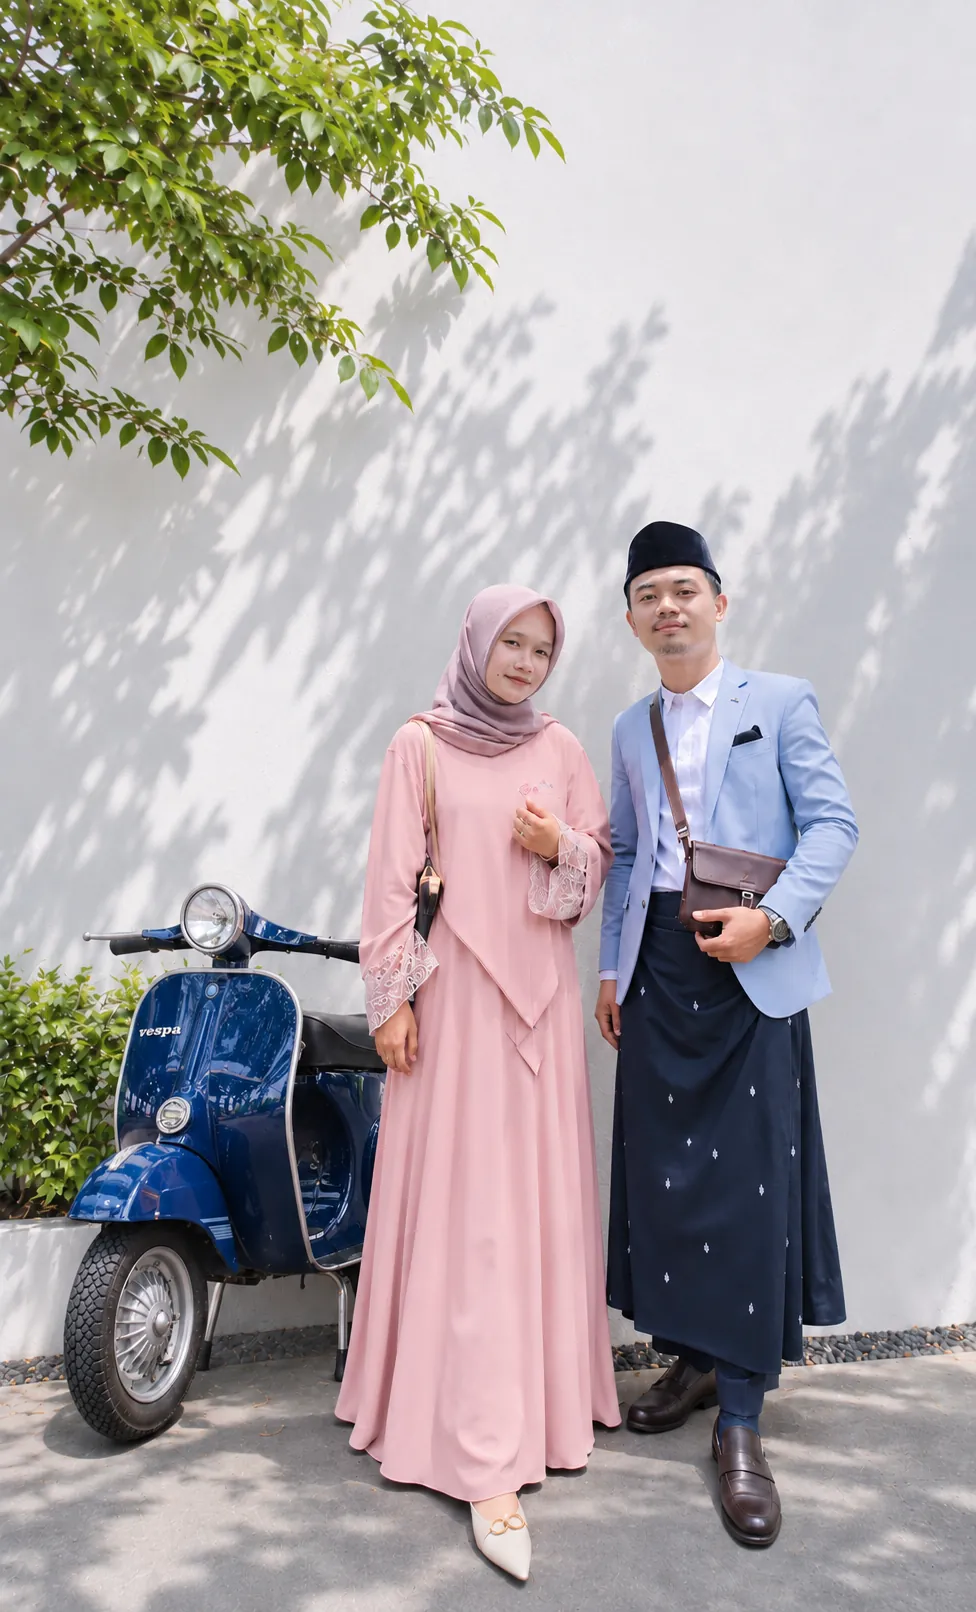
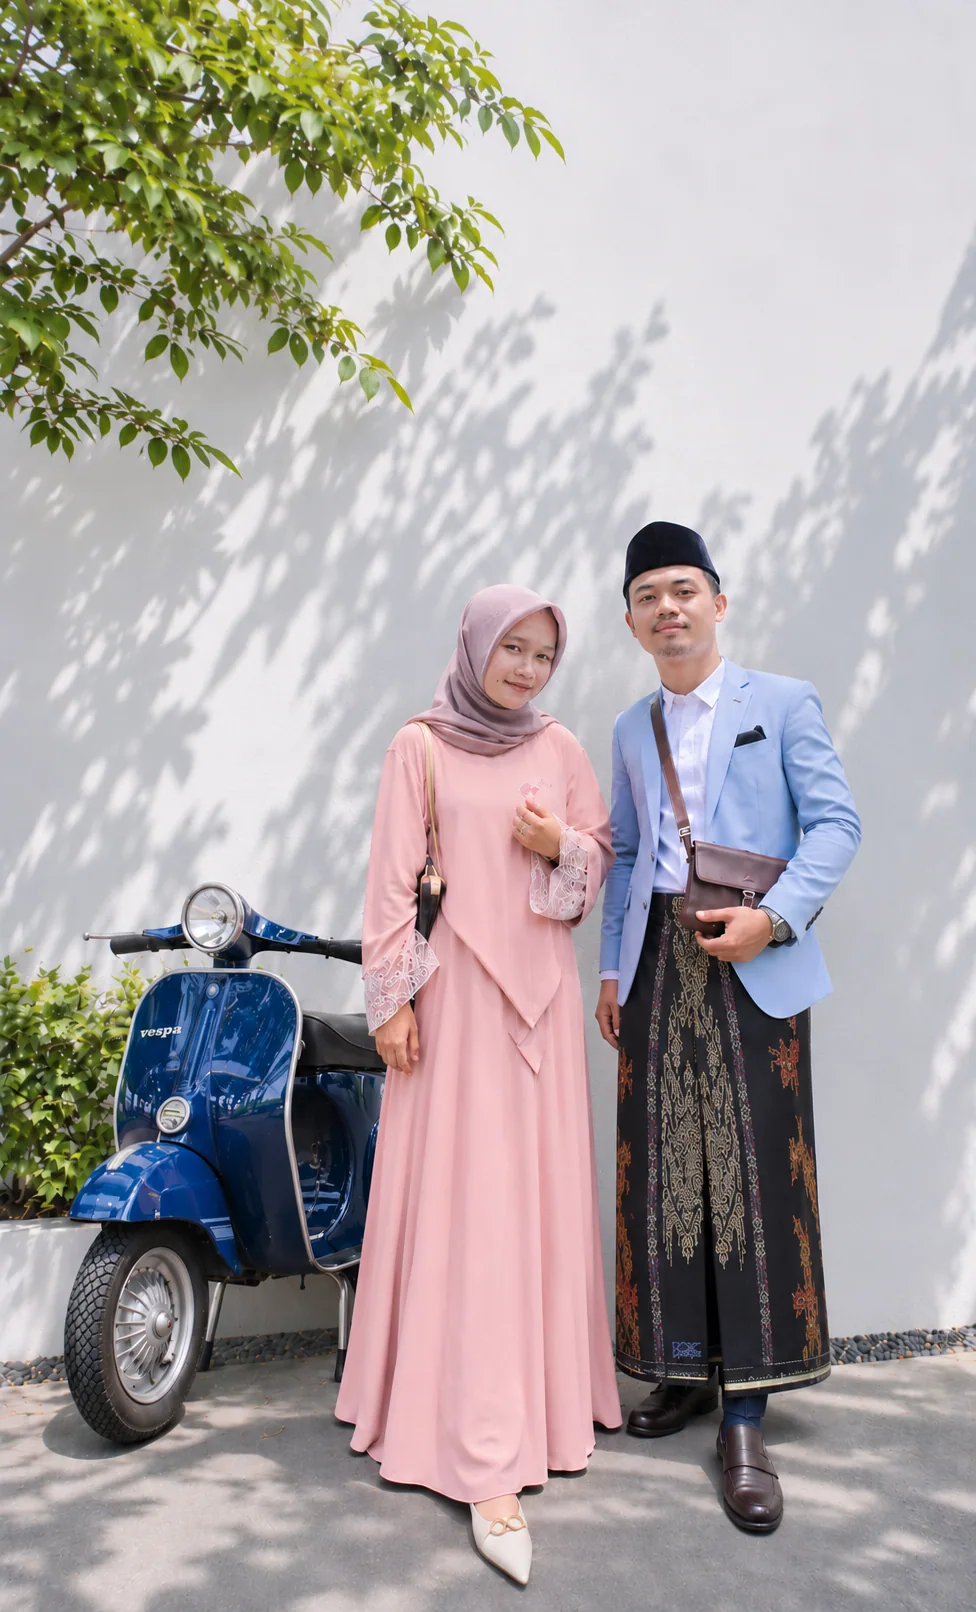
Add files via upload

diff --git a/index.html b/index.html
@@ -1,5 +1,5 @@
 <!doctype html><html lang="id"><head><meta charset="utf-8"><meta name="viewport" content="width=device-width,initial-scale=1,viewport-fit=cover"><meta name="theme-color" content="#243d35"><meta name="description" content="Undangan pernikahan Mumun Munawaroh & Muhamad Ainur Rofiq — 29 November 2026"><title>The Wedding of Mumun & Rofiq</title><link rel="preconnect" href="https://fonts.googleapis.com"><link rel="preconnect" href="https://fonts.gstatic.com" crossorigin><link href="https://fonts.googleapis.com/css2?family=Cormorant+Garamond:wght@400;500;600&family=DM+Sans:wght@400;500;600;700&display=swap" rel="stylesheet"><style>
 :root{--forest:#243d35;--sage:#a3b49d;--light:#e9eee5;--cream:#faf8f1;--gold:#b89b68;--ink:#243d35}*{box-sizing:border-box}html{scroll-behavior:smooth}body{margin:0;background:#dfe7df;color:var(--ink);font:14px/1.8 'DM Sans',sans-serif}body.lock{overflow:hidden}button,a{font:inherit}a{color:inherit}button{cursor:pointer}.shell{width:min(100%,560px);margin:auto;overflow:hidden;background:var(--cream);box-shadow:0 0 80px #1c3c3022}.serif{font-family:'Cormorant Garamond',serif;font-weight:500;line-height:1.08}.eyebrow{text-transform:uppercase;letter-spacing:.36em;font-size:10px;font-weight:700}.gold{color:var(--gold)}h1,h2,h3,p{margin-top:0}h2{font-size:clamp(42px,10vw,63px);margin-bottom:18px}h3{font-size:34px}.center{text-align:center}.section{padding:94px 28px;position:relative}.btn{border:1px solid var(--forest);background:var(--forest);color:white;border-radius:100px;padding:13px 25px;display:inline-flex;gap:10px;align-items:center;justify-content:center;text-decoration:none;font-size:12px;font-weight:700;letter-spacing:.03em;transition:transform .3s,background .3s}.btn:hover{transform:translateY(-3px);background:#38594c}.btn.outline{background:transparent;color:var(--forest)}.btn.light{background:var(--cream);color:var(--forest);border-color:var(--cream)}.cover{position:fixed;z-index:100;inset:0;background:#182d28;display:grid;place-items:center;transition:opacity 1s,visibility 1s}.cover.hide{opacity:0;visibility:hidden}.cover-inner{position:relative;height:100%;width:min(100%,560px);overflow:hidden;display:flex;align-items:flex-end;justify-content:center;text-align:center;color:white}.cover-inner:before{content:'';position:absolute;inset:0;background:linear-gradient(180deg,#12271f50 0%,transparent 30%,#0a2019d9 100%);z-index:1}.cover-photo{position:absolute;inset:0;background:url('assets/hero.webp') center 42%/cover;animation:slowzoom 18s ease-out both}.cover-content{position:relative;z-index:2;padding:45px 22px 9vh;width:100%;animation:rise 1.2s ease both}.cover h1{font-size:clamp(65px,14vw,100px);margin:16px 0}.cover .guest{margin:18px 0 26px}.cover .guest strong{display:block;font-size:17px}.cover .btn{background:#f7f5ed;color:var(--forest);border-color:#f7f5ed}.hero{min-height:100svh;position:relative;color:white;display:flex;align-items:flex-end;justify-content:center;text-align:center;padding:40px 24px 13vh;isolation:isolate;background:#20372f}.hero:before{content:'';position:absolute;inset:0;background:url('assets/hero.webp') center 38%/cover;z-index:-2;animation:slowzoom 18s ease both}.hero:after{content:'';position:absolute;inset:0;background:linear-gradient(180deg,#152b2244 0%,#152b2222 38%,#10261fdc 100%);z-index:-1}.hero h1{font-size:clamp(76px,16vw,112px);margin:18px 0}.hero p{max-width:380px;margin:auto}.scrollcue{position:absolute;bottom:28px;left:0;right:0;font-size:10px;letter-spacing:.2em;animation:bob 2.4s infinite}.intro{background:var(--cream)}.verse{font-size:15px;line-height:2.1;max-width:420px;margin:24px auto}.verse-label{font-size:11px;color:#697d6e}.divider{height:1px;width:75px;background:var(--gold);margin:30px auto}.couple{background:#e7ede4}.couple-card{margin:26px auto;max-width:390px}.couple-card img{width:100%;height:380px;object-fit:cover;border-radius:190px 190px 8px 8px;display:block}.couple-card h3{margin:24px 0 8px}.couple-photo img{height:auto;max-height:460px;aspect-ratio:4/5;object-fit:cover;object-position:center 45%;border-radius:190px 190px 10px 10px}.couple-details h3{margin:22px 0 8px}.couple-details p{font-size:12px}.gallery-grid img:first-child{grid-column:span 2;height:310px}.couple-card p{font-size:12px}.amp{font-size:56px;color:var(--gold);margin:6px 0}.event{background:var(--forest);color:#f6f5ed}.event h2{color:#fff}.event-card{border:1px solid #d5c49c88;border-radius:12px;padding:34px 18px;margin:18px 0;background:#ffffff0a}.event-card h3{margin:12px 0}.event-card p{margin-bottom:9px}.event .btn{margin-top:20px}.countdown{display:flex;gap:8px;justify-content:center;margin:28px 0}.countdown>div{background:#ffffff14;border:1px solid #ffffff30;border-radius:8px;min-width:65px;padding:9px 5px}.countdown strong{display:block;font-size:24px}.countdown span{font-size:9px;text-transform:uppercase;letter-spacing:.1em}.gallery{background:var(--cream)}.gallery-grid{display:grid;grid-template-columns:1fr 1fr;gap:10px;margin-top:36px}.gallery-grid img{width:100%;height:245px;object-fit:cover;border-radius:5px;display:block;cursor:zoom-in}.gallery-grid .wide{grid-column:span 2;height:310px}.gallery-grid .tall{height:320px}.quote{background:#dfe9df;padding:100px 35px}.quote p{font-size:33px;line-height:1.3}.rsvp{background:#f8f5ed}.gift{background:#e8eee7}.gift-card{background:#fff;border:1px solid #d2dccc;border-radius:14px;padding:25px;margin:15px 0;text-align:left}.gift-card small{display:block;letter-spacing:.2em;font-weight:700}.gift-card strong{font-size:22px;display:block;margin:9px 0 0}.gift-card p{margin:0 0 16px;font-size:12px}.gift-card button{padding:8px 17px}.closing{min-height:620px;display:flex;align-items:flex-end;justify-content:center;color:white;background:linear-gradient(180deg,#142e2520,#142e25e6),url('assets/sunset.webp') center/cover;padding:50px 24px}.closing h2{font-size:72px}.footer{padding:24px;background:#213d32;color:#e9efe9;text-align:center;font-size:10px;letter-spacing:.1em}.reveal{opacity:0;transform:translateY(34px);transition:opacity .85s ease,transform .85s ease}.reveal.show{opacity:1;transform:none}.float{position:fixed;bottom:20px;right:max(18px,calc((100vw - 560px)/2 + 18px));z-index:15;display:flex;gap:8px}.float button{border:0;border-radius:50%;background:var(--forest);color:white;width:44px;height:44px;box-shadow:0 5px 20px #0004}.float #musicToggle{font-size:19px;transition:transform .25s,background .25s}.float #musicToggle.playing{background:#b89b68;color:#243d35}.float #musicToggle:active{transform:scale(.92)}.modal{position:fixed;inset:0;background:#06120ee8;z-index:110;display:none;align-items:center;justify-content:center;padding:20px}.modal.open{display:flex}.modal img{max-width:100%;max-height:85vh;object-fit:contain}.modal button{position:absolute;top:20px;right:20px;background:white;border:0;border-radius:50%;width:38px;height:38px;font-size:23px}@keyframes slowzoom{from{transform:scale(1.1)}to{transform:scale(1)}}@keyframes rise{from{opacity:0;transform:translateY(30px)}to{opacity:1;transform:none}}@keyframes bob{50%{transform:translateY(8px)}}@media(prefers-reduced-motion:reduce){*,*:before,*:after{animation:none!important;transition:none!important}.reveal{opacity:1;transform:none}}@media(max-width:360px){.section{padding:70px 18px}.gallery-grid img{height:180px}.countdown>div{min-width:57px}}
-</style></head><body class="lock"><div class="cover" id="cover"><div class="cover-inner"><div class="cover-photo"></div><div class="cover-content"><div class="eyebrow">The Wedding Celebration</div><h1 class="serif">Mumun <span style="font-size:.55em">&</span><br>Rofiq</h1><div class="eyebrow">29 · 11 · 2026</div><div class="guest">Kepada Yth. Bapak/Ibu/Saudara/i<strong id="guestName">Tamu Undangan</strong></div><button class="btn" id="openInvite">✧ &nbsp; Buka Undangan</button></div></div></div><main class="shell"><section class="hero"><div><div class="eyebrow">Together with our families</div><h1 class="serif">Mumun <span style="font-size:.55em">&</span><br>Rofiq</h1><p>Dengan memohon rahmat dan ridho Allah SWT, kami mengundang Anda untuk menjadi bagian dari hari bahagia kami.</p><div class="divider"></div><div class="eyebrow">Minggu, 29 November 2026</div></div><div class="scrollcue">SCROLL TO EXPLORE ↓</div></section><section class="section intro center"><div class="reveal"><div class="eyebrow gold">Bismillahirrahmanirrahim</div><h2 class="serif">Assalamu’alaikum<br>Warahmatullahi Wabarakatuh</h2><p>Dengan segala kerendahan hati dan rasa syukur, kami bermaksud menyelenggarakan pernikahan putra-putri kami.</p><div class="divider"></div><p class="verse serif">“Dan di antara tanda-tanda (kebesaran)-Nya ialah Dia menciptakan pasangan-pasangan untukmu dari jenismu sendiri agar kamu cenderung dan merasa tenteram kepadanya...”</p><div class="verse-label">QS. Ar-Rum: 21 (kutipan terjemahan)</div></div></section><section class="section couple center"><div class="reveal"><div class="eyebrow gold">The Happy Couple</div><h2 class="serif">Dua Hati, Satu Janji</h2><div class="couple-card couple-photo"><img src="assets/vespa.webp" loading="lazy" alt="Mumun dan Rofiq berfoto bersama Vespa biru"></div><div class="couple-details"><h3 class="serif">Muhamad Ainur Rofiq</h3><p>Putra pertama dari<br><b>Bapak H. Akhmad Fauzi</b><br>& <b>Ibu Hj. Ulfah</b></p><div class="amp serif">&</div><h3 class="serif">Mumun Munawaroh</h3><p>Putri pertama dari<br><b>Bapak Mimin Minyadi</b><br>& <b>Ibu Suma'ah</b></p></div></div></section><section class="section event center"><div class="reveal"><div class="eyebrow gold">Save the Date</div><h2 class="serif">Hari Bahagia Kami</h2><div class="eyebrow">Minggu · 29 November 2026</div><p>18 Jumadil Akhir 1448 H</p><div class="countdown" id="countdown"><div><strong id="days">00</strong><span>Hari</span></div><div><strong id="hours">00</strong><span>Jam</span></div><div><strong id="minutes">00</strong><span>Menit</span></div><div><strong id="seconds">00</strong><span>Detik</span></div></div><div class="event-card"><div class="eyebrow gold">The Ceremony</div><h3 class="serif">Akad Nikah</h3><p><b>Minggu, 29 November 2026</b><br>08.00 WIB – Selesai</p></div><div class="event-card"><div class="eyebrow gold">The Reception</div><h3 class="serif">Resepsi</h3><p><b>Minggu, 29 November 2026</b><br>08.00 WIB – Selesai</p></div><div class="eyebrow gold" style="margin-top:34px">Wedding Location</div><h3 class="serif" style="margin:10px 0">Kp Ujung Tebu</h3><p>Desa Ujung Tebu, Kecamatan Ciomas<br>Kabupaten Serang, Banten</p><a class="btn light" href="https://maps.app.goo.gl/V5UBU62NmHGUVCNH8?g_st=aw" target="_blank" rel="noopener noreferrer">⌖ &nbsp; Buka Google Maps</a></div></section><section class="section gallery center"><div class="reveal"><div class="eyebrow gold">Our Memories</div><h2 class="serif">Every Moment,<br>Every Story</h2><p>Beberapa cerita kecil yang membawa kami menuju hari istimewa.</p></div><div class="gallery-grid"><img class="reveal tall" src="assets/bromo.webp" loading="lazy" alt="Kenangan perjalanan ke pegunungan"><img class="wide reveal" src="assets/sunset.webp" loading="lazy" alt="Kenangan senja di tepi laut"><img class="reveal" src="assets/mountain.webp" loading="lazy" alt="Kenangan bersama Vespa di pegunungan"><img class="reveal" src="assets/nightcity.webp" loading="lazy" alt="Kenangan malam di kota"><img class="wide reveal" src="assets/mosque.webp" loading="lazy" alt="Kenangan berdua di halaman masjid"></div></section><section class="quote center"><div class="reveal"><div class="eyebrow gold">A Journey of Love</div><p class="serif">“Dan semoga setiap langkah yang kita tempuh selalu menjadi jalan menuju kebaikan.”</p><div class="divider"></div><div class="eyebrow">Mumun & Rofiq</div></div></section><section class="section rsvp center"><div class="reveal"><div class="eyebrow gold">We'd Love to See You</div><h2 class="serif">Konfirmasi Kehadiran</h2><p>Kehadiran dan doa restu Anda adalah kebahagiaan bagi kami. Silakan konfirmasi melalui WhatsApp.</p><a class="btn" id="waLink" target="_blank" rel="noopener noreferrer" href="https://wa.me/6283165811332">✉ &nbsp; Konfirmasi via WhatsApp</a></div></section><section class="section gift center"><div class="reveal"><div class="eyebrow gold">Wedding Gift</div><h2 class="serif">Tanda Kasih</h2><p>Doa restu Anda merupakan hadiah terindah. Bagi yang ingin mengirimkan tanda kasih, tersedia pilihan berikut.</p><div class="gift-card"><small>DANA</small><strong>083813150288</strong><p>a.n. Mumun Munawaroh</p><button class="btn outline" data-copy="083813150288">Salin Nomor</button></div><div class="gift-card"><small>SEABANK</small><strong>901544517449</strong><p>a.n. Muhamad Ainur Rofiq</p><button class="btn outline" data-copy="901544517449">Salin Rekening</button></div></div></section><section class="closing center"><div class="reveal"><div class="eyebrow">With Love & Gratitude</div><h2 class="serif">Mumun<br>& Rofiq</h2><p>Merupakan suatu kehormatan dan kebahagiaan bagi kami apabila Bapak/Ibu/Saudara/i berkenan hadir dan memberikan doa restu.</p><div class="divider"></div><p><b>Keluarga Besar Kedua Mempelai</b><br>Bapak H. Akhmad Fauzi & Ibu Hj. Ulfah<br>Bapak Mimin Minyadi & Ibu Suma'ah</p><div class="eyebrow">29 November 2026</div></div></section><footer class="footer">THE WEDDING OF MUMUN & ROFIQ · 2026</footer></main><audio id="weddingMusic" preload="none" loop playsinline><source src="assets/musik-undangan.mp3" type="audio/mpeg"></audio><div class="float"><button id="musicToggle" type="button" title="Putar musik" aria-label="Putar musik" aria-pressed="false">♫</button><button id="backTop" title="Kembali ke atas" aria-label="Kembali ke atas">↑</button></div><div class="modal" id="modal" role="dialog" aria-modal="true" aria-label="Pratinjau foto"><button id="closeModal" aria-label="Tutup foto">×</button><img id="modalImage" alt="Foto galeri diperbesar"></div><script>
+</style></head><body class="lock"><div class="cover" id="cover"><div class="cover-inner"><div class="cover-photo"></div><div class="cover-content"><div class="eyebrow">The Wedding Celebration</div><h1 class="serif">Mumun <span style="font-size:.55em">&</span><br>Rofiq</h1><div class="eyebrow">29 · 11 · 2026</div><div class="guest">Kepada Yth. Bapak/Ibu/Saudara/i<strong id="guestName">Tamu Undangan</strong></div><button class="btn" id="openInvite">✧ &nbsp; Buka Undangan</button></div></div></div><main class="shell"><section class="hero"><div><div class="eyebrow">Together with our families</div><h1 class="serif">Mumun <span style="font-size:.55em">&</span><br>Rofiq</h1><p>Dengan memohon rahmat dan ridho Allah SWT, kami mengundang Anda untuk menjadi bagian dari hari bahagia kami.</p><div class="divider"></div><div class="eyebrow">Minggu, 29 November 2026</div></div><div class="scrollcue">SCROLL TO EXPLORE ↓</div></section><section class="section intro center"><div class="reveal"><div class="eyebrow gold">Bismillahirrahmanirrahim</div><h2 class="serif">Assalamu’alaikum<br>Warahmatullahi Wabarakatuh</h2><p>Dengan segala kerendahan hati dan rasa syukur, kami bermaksud menyelenggarakan pernikahan putra-putri kami.</p><div class="divider"></div><p class="verse serif">“Dan di antara tanda-tanda (kebesaran)-Nya ialah Dia menciptakan pasangan-pasangan untukmu dari jenismu sendiri agar kamu cenderung dan merasa tenteram kepadanya...”</p><div class="verse-label">QS. Ar-Rum: 21 (kutipan terjemahan)</div></div></section><section class="section couple center"><div class="reveal"><div class="eyebrow gold">The Happy Couple</div><h2 class="serif">Dua Hati, Satu Janji</h2><div class="couple-card couple-photo"><img src="assets/heritage.webp" loading="lazy" alt="Mumun dan Rofiq di depan menara bersejarah"></div><div class="couple-details"><h3 class="serif">Muhamad Ainur Rofiq</h3><p>Putra pertama dari<br><b>Bapak H. Akhmad Fauzi</b><br>& <b>Ibu Hj. Ulfah</b></p><div class="amp serif">&</div><h3 class="serif">Mumun Munawaroh</h3><p>Putri pertama dari<br><b>Bapak Mimin Minyadi</b><br>& <b>Ibu Suma'ah</b></p></div></div></section><section class="section event center"><div class="reveal"><div class="eyebrow gold">Save the Date</div><h2 class="serif">Hari Bahagia Kami</h2><div class="eyebrow">Minggu · 29 November 2026</div><p>18 Jumadil Akhir 1448 H</p><div class="countdown" id="countdown"><div><strong id="days">00</strong><span>Hari</span></div><div><strong id="hours">00</strong><span>Jam</span></div><div><strong id="minutes">00</strong><span>Menit</span></div><div><strong id="seconds">00</strong><span>Detik</span></div></div><div class="event-card"><div class="eyebrow gold">The Ceremony</div><h3 class="serif">Akad Nikah</h3><p><b>Minggu, 29 November 2026</b><br>08.00 WIB – Selesai</p></div><div class="event-card"><div class="eyebrow gold">The Reception</div><h3 class="serif">Resepsi</h3><p><b>Minggu, 29 November 2026</b><br>08.00 WIB – Selesai</p></div><div class="eyebrow gold" style="margin-top:34px">Wedding Location</div><h3 class="serif" style="margin:10px 0">Kp Ujung Tebu</h3><p>Desa Ujung Tebu, Kecamatan Ciomas<br>Kabupaten Serang, Banten</p><a class="btn light" href="https://maps.app.goo.gl/V5UBU62NmHGUVCNH8?g_st=aw" target="_blank" rel="noopener noreferrer">⌖ &nbsp; Buka Google Maps</a></div></section><section class="section gallery center"><div class="reveal"><div class="eyebrow gold">Our Memories</div><h2 class="serif">Every Moment,<br>Every Story</h2><p>Beberapa cerita kecil yang membawa kami menuju hari istimewa.</p></div><div class="gallery-grid"><img class="wide reveal" src="assets/sunset.webp" loading="lazy" alt="Kenangan senja di tepi laut"><img class="reveal" src="assets/mountain.webp" loading="lazy" alt="Kenangan bersama Vespa di pegunungan"><img class="wide reveal" src="assets/mosque.webp" loading="lazy" alt="Kenangan berdua di halaman masjid"><img class="reveal" src="assets/family1.webp" loading="lazy" alt="Momen bersama keluarga"><img class="reveal" src="assets/family2.webp" loading="lazy" alt="Momen silaturahmi keluarga"><img class="wide reveal" src="assets/family3.webp" loading="lazy" alt="Kenangan bersama keluarga"></div></section><section class="quote center"><div class="reveal"><div class="eyebrow gold">A Journey of Love</div><p class="serif">“Dan semoga setiap langkah yang kita tempuh selalu menjadi jalan menuju kebaikan.”</p><div class="divider"></div><div class="eyebrow">Mumun & Rofiq</div></div></section><section class="section rsvp center"><div class="reveal"><div class="eyebrow gold">We'd Love to See You</div><h2 class="serif">Konfirmasi Kehadiran</h2><p>Kehadiran dan doa restu Anda adalah kebahagiaan bagi kami. Silakan konfirmasi melalui WhatsApp.</p><a class="btn" id="waLink" target="_blank" rel="noopener noreferrer" href="https://wa.me/6283165811332">✉ &nbsp; Konfirmasi via WhatsApp</a></div></section><section class="section gift center"><div class="reveal"><div class="eyebrow gold">Wedding Gift</div><h2 class="serif">Tanda Kasih</h2><p>Doa restu Anda merupakan hadiah terindah. Bagi yang ingin mengirimkan tanda kasih, tersedia pilihan berikut.</p><div class="gift-card"><small>DANA</small><strong>083813150288</strong><p>a.n. Mumun Munawaroh</p><button class="btn outline" data-copy="083813150288">Salin Nomor</button></div><div class="gift-card"><small>SEABANK</small><strong>901544517449</strong><p>a.n. Muhamad Ainur Rofiq</p><button class="btn outline" data-copy="901544517449">Salin Rekening</button></div></div></section><section class="closing center"><div class="reveal"><div class="eyebrow">With Love & Gratitude</div><h2 class="serif">Mumun<br>& Rofiq</h2><p>Merupakan suatu kehormatan dan kebahagiaan bagi kami apabila Bapak/Ibu/Saudara/i berkenan hadir dan memberikan doa restu.</p><div class="divider"></div><p><b>Keluarga Besar Kedua Mempelai</b><br>Bapak H. Akhmad Fauzi & Ibu Hj. Ulfah<br>Bapak Mimin Minyadi & Ibu Suma'ah</p><div class="eyebrow">29 November 2026</div></div></section><footer class="footer">THE WEDDING OF MUMUN & ROFIQ · 2026</footer></main><audio id="weddingMusic" preload="none" loop playsinline><source src="assets/musik-undangan.mp3" type="audio/mpeg"></audio><div class="float"><button id="musicToggle" type="button" title="Putar musik" aria-label="Putar musik" aria-pressed="false">♫</button><button id="backTop" title="Kembali ke atas" aria-label="Kembali ke atas">↑</button></div><div class="modal" id="modal" role="dialog" aria-modal="true" aria-label="Pratinjau foto"><button id="closeModal" aria-label="Tutup foto">×</button><img id="modalImage" alt="Foto galeri diperbesar"></div><script>
 const params=new URLSearchParams(location.search);const guest=(params.get('to')||'Tamu Undangan').trim().slice(0,90);document.getElementById('guestName').textContent=guest;const cover=document.getElementById('cover');document.getElementById('openInvite').addEventListener('click',()=>{cover.classList.add('hide');document.body.classList.remove('lock');setTimeout(()=>cover.remove(),1100);startWeddingMusic()});const weddingMusic=document.getElementById('weddingMusic');const musicToggle=document.getElementById('musicToggle');let musicPlaying=false;function updateMusicButton(){musicToggle.textContent=musicPlaying?'♫':'♪';musicToggle.classList.toggle('playing',musicPlaying);musicToggle.setAttribute('aria-pressed',String(musicPlaying));musicToggle.setAttribute('aria-label',musicPlaying?'Matikan musik':'Putar musik');musicToggle.title=musicPlaying?'Matikan musik':'Putar musik'}async function startWeddingMusic(){try{weddingMusic.volume=.55;await weddingMusic.play();musicPlaying=true}catch(err){musicPlaying=false;console.info('Musik tidak tersedia atau browser menolak pemutaran:',err.message);musicToggle.title='Musik gagal diputar. Periksa koneksi atau file audio.'}updateMusicButton()}musicToggle.addEventListener('click',async()=>{if(musicPlaying){weddingMusic.pause();musicPlaying=false;updateMusicButton()}else{await startWeddingMusic()}});weddingMusic.addEventListener('ended',()=>{musicPlaying=false;updateMusicButton()});weddingMusic.addEventListener('error',()=>{musicPlaying=false;updateMusicButton()});updateMusicButton();const observer=new IntersectionObserver(entries=>entries.forEach(e=>{if(e.isIntersecting){e.target.classList.add('show');observer.unobserve(e.target)}}),{threshold:.1});document.querySelectorAll('.reveal').forEach(e=>observer.observe(e));const target=new Date('2026-11-29T08:00:00+07:00').getTime();function tick(){let diff=Math.max(0,target-Date.now());const d=Math.floor(diff/86400000),h=Math.floor(diff%86400000/3600000),m=Math.floor(diff%3600000/60000),s=Math.floor(diff%60000/1000);[['days',d],['hours',h],['minutes',m],['seconds',s]].forEach(([id,v])=>document.getElementById(id).textContent=String(v).padStart(2,'0'))}tick();setInterval(tick,1000);const message=`Assalamu'alaikum, saya ${guest} ingin mengonfirmasi kehadiran pada pernikahan Mumun & Rofiq tanggal 29 November 2026.`;document.getElementById('waLink').href='https://wa.me/6283165811332?text='+encodeURIComponent(message);document.querySelectorAll('[data-copy]').forEach(b=>b.addEventListener('click',async()=>{const v=b.dataset.copy;try{await navigator.clipboard.writeText(v);b.textContent='✓ Tersalin'}catch(e){const el=document.createElement('textarea');el.value=v;document.body.appendChild(el);el.select();document.execCommand('copy');el.remove();b.textContent='✓ Tersalin'}setTimeout(()=>b.textContent=v==='083813150288'?'Salin Nomor':'Salin Rekening',2200)}));document.getElementById('backTop').onclick=()=>scrollTo({top:0,behavior:'smooth'});const modal=document.getElementById('modal');document.querySelectorAll('.gallery-grid img').forEach(img=>img.addEventListener('click',()=>{document.getElementById('modalImage').src=img.src;modal.classList.add('open')}));function closeModal(){modal.classList.remove('open')}document.getElementById('closeModal').onclick=closeModal;modal.addEventListener('click',e=>{if(e.target===modal)closeModal()});document.addEventListener('keydown',e=>{if(e.key==='Escape')closeModal()});
 </script></body></html>
